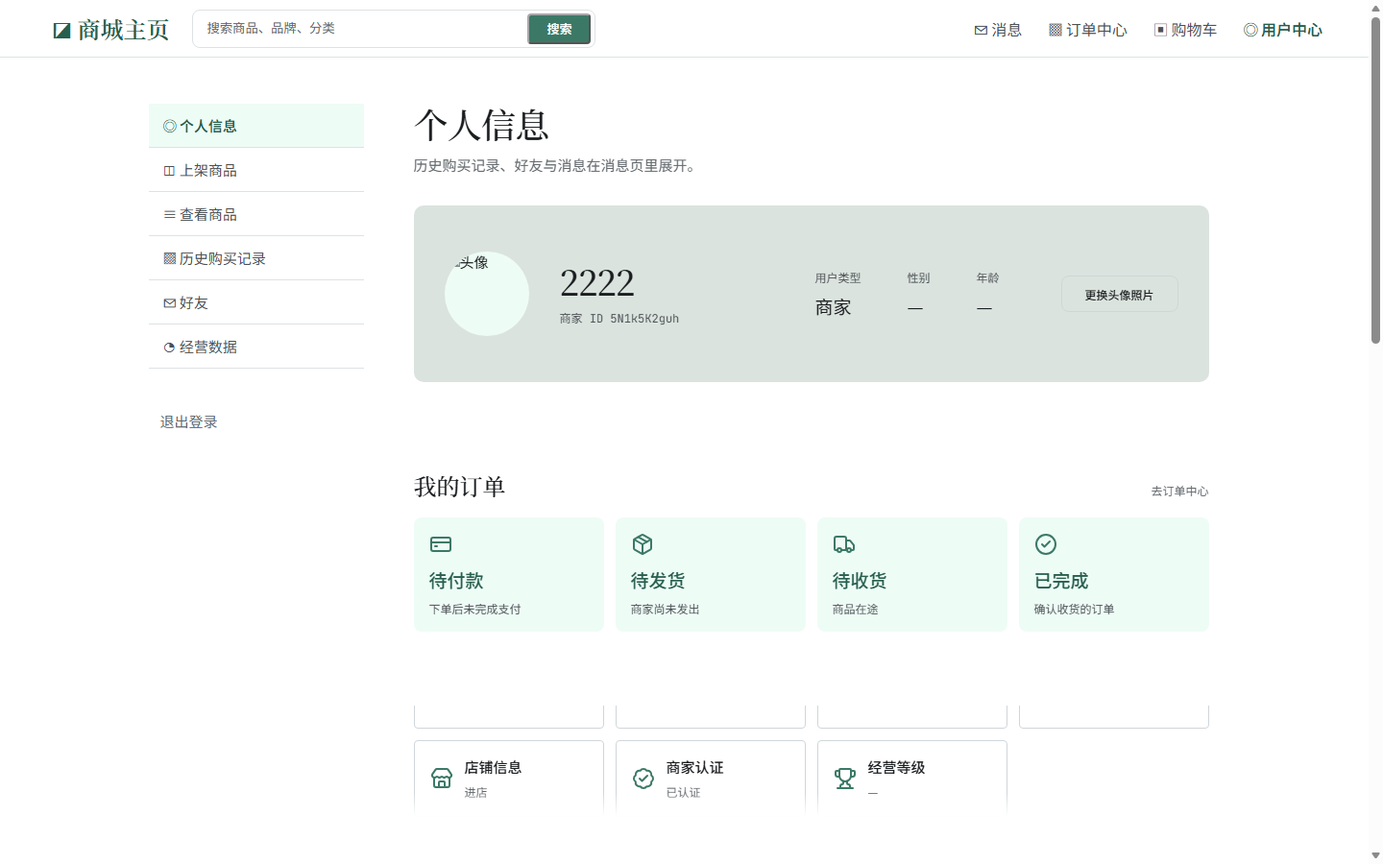
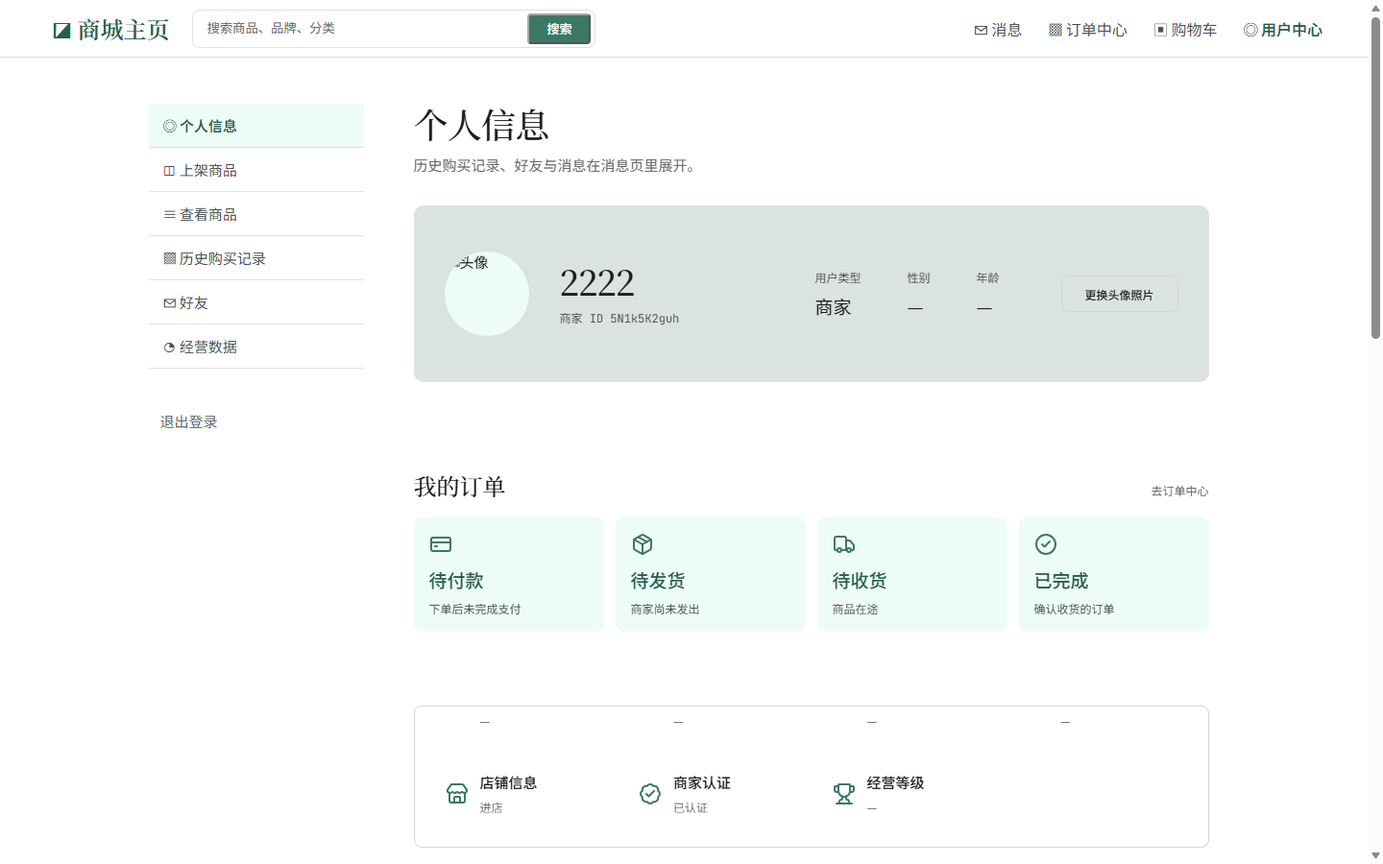
feat(marketing): 块 5 B 组手验 —— 个人中心下半加**容器层**（甲：白底容器 + 内部无边框）
用户 2026-10-12 第三轮**推翻了前两轮的判断**，原话：「**我上两条判错了。真问题是：下半缺
『容器层』**……**不是卡片边框问题，是『下半没有区域边界』**」。`UserInfoPage.vue`
**1132 → 1188 行**（仍是本笔唯一源码文件）。

**先查后改：这一轮有四处前提，逐条核过再动**
- 甲 的字面是 `border: 1px solid var(--line)`。实测本页 **`--line-2` 4 处全是「有框的盒 /
  控件」**（`.f input` / `.btn-plain` / `.mc-dlg` / 旧卡），**`--line` 单独出现只有 1 处**
  且是 **`.mc-dlg-h` 的 `border-bottom`（盒内分隔线）** ⇒ 惯例是「盒的边界用 `--line-2`、
  盒内的分隔用 `--line`」⇒ 容器归前者。**这是对甲字面的一处偏离，已报备。**
- 「容器套在滚动区外面」不是选择而是必需：`.assets` 身上挂着 `mask-image` 下边缘渐隐，
  框画在它自己身上 ⇒ **底边会被自己那道渐隐吃掉**。⇒ 结构只能是
  `div.assets-box` > `section.assets.assets-scroll`。
- ⚠ **我上一轮在 `:1064-1066` 亲手写下过「不要套 wrapper」**，理由是 `margin-top` 76.8px
  会落进滚动内容、首屏被顶掉。核后：那条**只对「wrapper 套在滚动内容里」成立**——
  这里是**把 `margin-top` 搬到 wrapper 上**（`.assets` 那条已删）⇒ 理由不成立，
  **笔记当场作废并改写**（证据 §1 有对照表）。
- 上一轮登记的「偏离 `tokens.css:37`（hover 用底色变化）」**本轮作废**：卡片无框后 hover
  回到**底色** `--surface-2`，**正好是那句的字面** ⇒ 不再是偏离。

**落地：结构一处 + CSS 四处**
- 两壳各加一层 `div.assets-box`（**两壳都有**：「区域边界」与放不放得下无关）。
  `<div>` 与 `<section>` **贴同一行**是故意的 —— 里面 60 多行缩进一字不动。
- `.assets-box`：1px `--line-2` + `--r2` + `padding: --s4` + `background: --surface`，
  并**接过** `.assets` 的 `margin-top: calc(var(--s8)*1.2)`（值未改）。
- `.assets > .asset-card`：**删掉 `border`**，留 `border-radius`（hover 底色要圆角收边）与白底。
- `.asset-entry`：`transition: border-color` → `background`；hover 换 `--surface-2`（**不引绿**）。
- `--assets-row` 算式**删掉 `+ 2px`**（那是卡框）⇒ 卡高 **79.8 → 77.8**、滚动区 115.8 → **113.8**、
  容器外高商家 **147.8** / 客户 **111.8**。
[…]

Changed region(s): [[0.4375, 0.8711, 0.5312, 0.9333], [0.5938, 0.8711, 0.6875, 0.9333], [0.3125, 0.8711, 0.375, 0.9333]]

diff --git a/Mall-management-web/mall-management-system/src/views/UserInfoPage.vue b/Mall-management-web/mall-management-system/src/views/UserInfoPage.vue
@@ -84,20 +84,22 @@
       </section>
 
       <!-- ── ③【无名框】7 项（商家版）—— **无块标题**（用户 2026-10-12 定稿「无名框，无块标题」）──
-           ⚠ 2026-10-12（③ 卡片式统一 → 当日第二轮「甲案：上亮下素」）：一格的形状**由「大数字 + 小标签」
-              改成卡片**，本轮再**由「竖向」改成横向行卡** —— 本块与「我的订单」四格**共用同一套三段解剖**
-              （图标 `@lucide/vue` / 名称 `b` / 值 `span`），但**不再共用同一张卡壳**：
-                上半「我的订单」= 浅绿底 `--brand-tint` + 无边框 + `--r2` —— **已验收，本轮一行未动**；
-                本块 = **白底 `--surface` + 1px 发丝线 `--line-2` + `--r1`** ⇒ 更素（用户定的「上亮下素」）。
-                ⚠ 边框色 2026-10-12 第二轮由 `--line` 加深成 `--line-2`（「白底 + 更深边框」）；
-                   底色**没变过** —— 所谓「浅灰底」并不存在，详见 <style> 里那段。
+           ⚠ 2026-10-12（③ 卡片式统一 → 第二轮「上亮下素」→ **第三轮「加容器层」**，用户逐轮改判）：一格的
+              形状**由「大数字 + 小标签」改成卡片**，再**由「竖向」改成横向行卡**，第三轮**把卡片自己那圈框
+              整体撤掉**。本块与「我的订单」四格**共用同一套三段解剖**（图标 `@lucide/vue` / 名称 `b` /
+              值 `span`），但**分块手段换了轴**（用户第三轮原话「两种形态不同轴」）：
+                上半「我的订单」= **4 张独立卡**（浅绿底 `--brand-tint` + 无边框 + `--r2`）—— **已验收，三轮一行未动**；
+                本块 = **1 个容器装 7 项** —— 容器是外面那层 `div.assets-box`（1px `--line-2` + `--r2` + `--s4`
+                       内距），7 项**自己无边框**、底仍是白 ⇒ 「靠容器框分界，不靠卡片自己分」（见 <style> 文件尾）。
               版式：**图标在左、名称与值两行在右**（名称 `--fs-sm` / `--ink`，值 `--fs-xs` / `--ink-3`；
               这一档字阶与同页「服务」块 `.svc` 逐值相同）。⇒ 卡片因此**矮掉约三分之一**
-              （≈80px vs 上半 ≈119px）—— 「矮」本身就在说它比上半轻，不靠阴影或加粗去说。
-              模板 `<svg> <b> <span>` 的顺序**一行未改**（横向版式纯靠 CSS 网格，见 <style>「上亮下素」段）。
+              （≈78px vs 上半 ≈119px）—— 「矮」本身就在说它比上半轻，不靠阴影或加粗去说。
+              模板 `<svg> <b> <span>` 的顺序**一行未改**（横向版式纯靠 CSS 网格，见 <style>「上卡下盒」段）。
            布局规则（用户定稿「布局规则」段，逐条落）：一行 4 块 · 超出换行 · 第 2 行不足 4 块**左对齐**（甲）
            · **容器级纵向滚动**（乙）· 隐藏原生滚动条 · **下边缘渐隐**（「与领券中心统一」⇒ 78% 停点）。
            ⇒ 多出来的 `.assets-scroll` **只挂这一份**：用户端那 4 项一行放得下 ⇒ 不滚、不渐隐（样式见 <style>）。
+              ⚠ 但**外面那层容器 `div.assets-box` 两壳都有** —— 「区域边界」与「放不放得下」无关；
+                 只有**滚动 + 渐隐**才是溢出样式（判据是项数，不是角色）。
            ⚠ 七项里**只有「优惠券」复用客户版那颗 `div[role=button]`**（用户 2026-10-12 两处待定 ①：
               「券包是『我这个人』的券，不分商家 / 用户视角」）—— 同一组件、同一数据源（`customerId`）。
            ⚠ **边界 2（用户 2026-10-12 要求给明确态）**：`user.customerid` 为空时券包**没有账号可挂**
@@ -109,7 +111,10 @@
               真入口要在「先注册成客户、再入驻通过」的账号上才看得到。
            ⚠ 「店铺信息」跳 `/shop?MerchantId=<自己的商家号>` —— **那条路由属 commit C**（本 commit 里
               点它只有 vue-router 的控制台告警、不跳转），这是**按批准的三 commit 切分**排的，不是遗漏。 -->
-      <section
+      <!-- ⚠ 「区域边界」这一层**必须在滚动区之外**（理由 + 与 `tokens.css:35`「禁嵌套卡片」的关系
+           都写在 <style> 文件尾 `.assets-box` 那段）。`<div>` 与 `<section>` 贴同一行是**故意的**：
+           这样里面 60 多行的缩进一字不动 ⇒ diff 里只有这两行，不给后来人留一片纯缩进的噪声。 -->
+      <div class="assets-box"><section
         class="assets assets-scroll"
         data-slot="预留 · 商家资产与等级（待 C3〈商家中心〉）"
         title="待 C3〈商家中心〉——积分 / 余额 / 我的收藏三格无聚合端点（N=3），经营等级规则先占位（裁定 ④）；⚠ 「优惠券」格已于 C3 块 5 接通（复用用户中心券包弹窗）、「店铺信息」「商家认证」两格已接通（跳店铺主页 / 读 /merchant/myApplications 最新一条的状态）"
@@ -176,7 +181,7 @@
           <Trophy class="card-ic" aria-hidden="true" />
           <b>经营等级</b><span>—</span>
         </div>
-      </section>
+      </section></div>
 
       <!-- ── ④ 最近上架（商家版）—— 卡片 + hover。稿 `:336-349` ───────────────────
            ⚠ **本页唯一一条真 `<router-link>`**：「查看全部」指向 `/merchant/user/list`
@@ -252,12 +257,13 @@
 
       <!-- ── ③【无名框】4 项（客户版）—— **无块标题**，间距分隔（无线）。稿 `:323-329` ────────────
            ⚠ C3 块 5 · B 组（2026-10-12）**本块从 ② 下移到 ③**（用户定稿「[无名框]（4 项）← 下」）。
-           ⚠ 2026-10-12（③ 卡片式统一 → 当日第二轮「甲案：上亮下素」）：本块**与商家版那 7 项同款卡片**
-              —— **白底 + 1px 发丝线 + `--r1`**、横向行卡（图标左 / 名称与值两行右），三段解剖不变。
-              与上半「我的订单」四格的分工见商家版那段注释（上亮下素）。原来那句「数字用色」的
-              `.v` 大字已不成立，随之改掉。
+           ⚠ 2026-10-12（③ 卡片式统一 → 第二轮「上亮下素」→ **第三轮「加容器层」**）：本块**与商家版
+              那 7 项同款** —— **同一个容器**（外面那层 `div.assets-box`）+ **内部无边框的**横向行卡
+              （图标左 / 名称与值两行右），三段解剖不变。与上半「我的订单」四格的分工见商家版那段
+              注释（**上卡下盒**）；原来那句「数字用色」的 `.v` 大字已不成立，随之改掉。
            ⚠ 4 项一行放得下 ⇒ **不滚、不渐隐**：本节的 `class` **不加** `.assets-scroll`（那一条只挂商家版
-              7 项那一份）。这是两壳在样式上的唯一分叉，判据是「项数放不放得下」，不是「谁是商家」。
+              7 项那一份）。两句要分开读：**容器 `div.assets-box` 两壳都有**，只有滚动 + 渐隐是溢出样式；
+              分叉的判据是「项数放不放得下」，不是「谁是商家」。
            ⚠ 与商家版同一条：稿那 4 个数（1,280 / 3 张 / ¥286.50 / 12 件）是示意值，
               **其余三格**无聚合端点 ⇒ **值落 `—`**（F1 = 甲）。单位 `<small>张/¥/件</small>` 随之不落。
            ⚠ **2026-10-11（块 5 · 券的信息架构重排）：「优惠券」一格已接通** —— 它是「我的券包」的
@@ -267,7 +273,8 @@
            ⚠ **本节与商家版那 7 项里的「优惠券」格是同一颗 `div[role=button]`、同一个 `customerId`、
               同一个弹窗**（块 5 B 组两处待定 ①：「券包是『我这个人』的券，不分视角」）—— 当年那句
               「商家看自己的券在管理端，不在这个壳里」**已废**，别再按它推断商家壳里没有券包入口。 -->
-      <section
+      <!-- ⚠ 同商家版：区域边界（`div.assets-box`）在滚动区之外；两壳同款容器。 -->
+      <div class="assets-box"><section
         class="assets"
         data-slot="预留 · 我的资产（待 C3〈个人中心〉）"
         title="待 C3〈个人中心〉——积分/余额/收藏三格无聚合端点（N=3）；⚠ 「优惠券」一格已于 C3 块 5 接通（真券数 + 券包弹窗入口）；稿的 4 个数字为稿自注的示意值，未接通的仍落 —（同 OrderCenter KPI 口径）"
@@ -291,7 +298,7 @@
         </div>
         <div class="asset-card"><Wallet class="card-ic" aria-hidden="true" /><b>余额</b><span>—</span></div>
         <div class="asset-card"><Heart class="card-ic" aria-hidden="true" /><b>我的收藏</b><span>—</span></div>
-      </section>
+      </section></div>
 
       <!-- ── ④ 收藏 / 浏览足迹（客户版）—— 卡片 + hover。稿 `:348-368` ─────────────
            ⚠ 稿的三枚「更多」全是禁用（无端点）；卡片名 / 价同样是稿编的 ⇒ 落 `—`。
@@ -870,48 +877,56 @@ button {
 .ident-btn { margin-left: var(--s6); }
 .file-hidden { display: none; }
 
-/* ── 两处「格子」的分工：**上亮下素**（2026-10-12；③ 建的卡片式统一 → 当日第二轮「甲案」改的下半）
-   两处共用**同一套三段解剖**（图标 `.card-ic` / 名称 `b` / 值 `span`），但**不再共用同一张卡壳** ——
-   用户 2026-10-12 定的分工是「上亮下素」：
-     · 上半 `.tiles`（我的订单 4 格）= **浅绿底 + 无边框**（`--brand-tint` / `--r2`），一屏的视觉焦点。
-       已验收 ⇒ 本轮**一行未动**（它那几条在下面自己那段里，本段不再重复声明）。
-     · 下半 `.assets`（无名框：商家 7 / 客户 4 格）= **白底 + 1px 发丝线 + `--r1`**，更素、更矮、更轻。
-       ⚠ 边框色 2026-10-12 第二轮由 `--line` 加深成 **`--line-2`**（用户：「白底 + 更深边框」）。
-   上下差异是**五处**（底色 / 有无边框 / 圆角 / 字阶 / 版式），不是「同一种卡换个颜色」——
-   层级靠**结构装置**说（这里是「矮一半」），不靠阴影和加粗。
+/* ── 两处「格子」的分工：**上亮下素 → 上卡下盒**（2026-10-12，用户逐轮改判了三次）
+   ⚠ 沿革要留着，否则后来人会按**已废掉的诊断**去「修」：
+        ③「卡片式统一」→ 当日第二轮「上亮下素」（下半 = 白底 + 更深边框）
+        → 当日**第三轮**用户**推翻前两条**：「我上两条判错了。真问题是：下半缺『容器层』……
+          不是卡片边框问题，是『下半没有区域边界』」。
+      ⇒ 下半卡片**自己那圈框**（③ 起就有、第二轮加深过）**已整体撤掉**，改由**容器**分界。
+   ⚠ 两处共用**同一套三段解剖**（图标 `.card-ic` / 名称 `b` / 值 `span`），但**分块手段换了轴**
+      （用户第三轮原话「两种形态不同轴」）：
+        · 上半 `.tiles`（我的订单 4 格）= 4 张**独立卡**：浅绿底 `--brand-tint` + 无边框 + `--r2`。
+          已验收 ⇒ **三轮一行未动**（它那几条在下面自己那段里，本段不再重复声明）。
+        · 下半 `.assets`（无名框：商家 7 / 客户 4 格）= **1 个容器装 N 项**：容器见文件尾 `.assets-box`
+          （1px `--line-2` + `--r2` + `--s4` 内距），**内部各项无边框、底仍是白** ⇒「靠容器框分界，不靠卡片自己分」。
+   ⚠ 上下差异仍是**五处**（底色 / 有无边框 / 圆角 / 字阶 / 版式），不是「同一种卡换个颜色」——
+      层级靠**结构装置**说（这里是「矮一半」+「散着 → 收成一盒」），不靠阴影和加粗。
    ⚠ 版式：下半是**横向行卡**（图标左 / 名称+值右两行左对齐）⇒ 卡片**矮掉约三分之一**
-      （≈80px vs 上半 ≈119px）。矮，本身就是「它比上半轻」那句话。
+      （≈78px vs 上半 ≈119px）。矮，本身就是「它比上半轻」那句话。
    ⚠ **一条 `box-shadow` 都没有** —— 这不是「懒得加」，是本仓**成文的规矩**：
       `tokens.css:35-36` 的「用法规矩」原文就是「**禁 · 阴影铺满（改用 1px 发丝线 `--line`）**」
       + 「禁 · 统一大圆角（只用 `--r1/--r2/--r3`）」；`tokens.css:91` 那行 `--line` 自注的也是
       「发丝线（**替代阴影的主力**）」。本页「次级」的既有 idiom 同样是描边：
-      `.btn-plain:1017`，以及 ⑥ 账号设置的输入框 `.f input:1002`（白底 + 1px + `transition: border-color`）。
-   ⚠ **边框色取 `--line-2`（`tokens.css:92`），不是 `--line`** —— 2026-10-12 第二轮用户裁定
-      「浅灰底撤掉、**白底 + 更深边框**」（给的推荐式为「甲：白底 + 1px `--line-2`」）。
-      ⚠ **「浅灰底」是不存在的**，所以本轮**没有底色可撤**：卡面从 ③ 起就是 `--surface`
-      （`#ffffff`，与 `--bg` 同值）；实测涂色也是 `rgb(255, 255, 255)`，页面底（`.app-shell`）同样是白。
-      ⇒ **本轮的实际变化只有一处：边框 `--line` → `--line-2`**（对比度 1.31:1 → 1.47:1）。
-      `--line-2` 在本页已有三处先例、**都是「次级控件」的描边**：`.f input:1002` / `.btn-plain:1017`
-      / `.mc-dlg:1112`（商家认证弹窗的板）⇒ 下半（次级入口）与它们同族；与输入框仍分得开
-      （半径 `--r1` vs `--r2`、体量 80 vs 42）。
-      ⚠ 字体族/字阶/半径/内距/hover 一律**未动**；`--surface` 也不改成 `--bg` —— 亮色主题下两者同值，
-      但 `--bg` 是**页面底**语义，`html[data-theme="admin"]` 下 `--bg`(#101828) ≠ `--surface`(#172032)，
-      用它会让卡片与该主题的页面底同色、**卡片消失**。
+      `.btn-plain`，以及 ⑥ 账号设置的输入框 `.f input`（白底 + 1px + `transition: border-color`）。
+   ⚠ `--line` / `--line-2` 在本页的分工**已实测成文**（第三轮为容器选框色时数的）：
+        **`--line-2` 4 处** —— `.f input` / `.btn-plain` / `.mc-dlg` / 本容器，**全是有框的盒 / 控件**；
+        **`--line` 单独出现只有 1 处** —— `.mc-dlg-h` 的 `border-bottom`，那是**盒内的一条分隔线**。
+      ⇒ 惯例：「**盒的边界用 `--line-2`、盒内的分隔用 `--line`**」⇒ 容器（区域的边界）归前者。
+   ⚠ 底色**从头到尾没变过**：卡面 / 盒面都是 `--surface`，亮色主题下与 `--bg`、页面底（`.app-shell`）
+      三者同值 `#ffffff` ⇒ 第二轮那句「浅灰底撤掉」是**没有对象可撤的**（实测见证据文件）。
+      `--surface` 也**不**改成 `--bg`：亮色主题下两者同值看不出，但 `--bg` 是**页面底**语义，
+      `html[data-theme="admin"]` 下 `--bg`(#101828) ≠ `--surface`(#172032) ⇒ 用它会让整块与页面底同色、**消失**。
    ⚠ 名称字色由 `--brand-ink` 降成 `--ink`、字号由 `--fs-md`(19) 降成 `--fs-sm`(15) —— 绿只留给**图标**，
-      下半卡面不再有绿。**字阶与同页 `.svc`（服务块 `:993` / `:995`）逐值相同**
+      下半卡面不再有绿。**字阶与同页 `.svc`（服务块）逐值相同**
       （`b` = `--fs-sm`/`--fw-med`/`--ink`，`span` = `margin-top:var(--s2)`/`--fs-xs`/`--ink-3`），
       只有 `line-height` 不同（`.svc` 是 1.6，这里 1.4）—— 卡片里两行本就紧邻，且 1.4 要进容器高算式。
    ⚠ 两条 `line-height: 1.4` **必须显式写**：文件尾 `.assets-scroll` 的容器高是拿这批 token 算出来的，
       行高若走继承值，算式与实际渲染就会对不上。
-   ⚠ 格距仍是 `--s3`（12px）—— 与 `.tiles` 同缝宽；**有边框之后** 32px 的缝会把一行拆成四张孤立的卡。 */
-.assets { margin-top: calc(var(--s8) * 1.2); display: grid; grid-template-columns: repeat(4, 1fr); gap: var(--s3); }
+   ⚠ 格距仍是 `--s3`（12px）—— 与 `.tiles` 同缝宽。**框撤掉之后**缝的意义变了：它不再「把一行拆成
+      四张孤立的卡」（那是第二轮的话），而是**一盒之内**的呼吸 —— 外面已经有容器框在说「这是一块」。 */
+/* ⚠ `margin-top` 已**搬到 `.assets-box`**（第三轮加容器；值未变、仍是 `--s8 × 1.2`），
+   留在这里会与容器的边距叠成两份 ⇒ 本行只留网格。 */
+.assets { display: grid; grid-template-columns: repeat(4, 1fr); gap: var(--s3); }
 /* 横向行卡 = 两列网格（`auto` 图标 / `minmax(0,1fr)` 文字块）+ 图标 `grid-row: 1 / span 2` 跨过
    名称与值那两行 ⇒ **零 DOM 改动**就得到「图标左、名称+值上下两行右」这版式
    （模板里 `<svg> <b> <span>` 的顺序本就正好是这个，一行未改）。 */
+/* ⚠ **本行第三轮撤掉了 `border`**（③ 建、第二轮加深过的那一圈）—— 边界改由**容器**（`.assets-box`）承担。
+   `border-radius` **留着**：可点的那几项 hover 会给底色（`--surface-2`），底色要圆角收边。
+   `background: var(--surface)` 也**留着**：用户甲的原文就是「内部卡片：白底 + 无边框」；且它是唯一的
+   「换主题时仍是一张面」的保证（`html[data-theme="admin"]` 下 `--surface` ≠ `--bg`）。 */
 .assets > .asset-card {
   display: grid; grid-template-columns: auto minmax(0, 1fr); column-gap: var(--s3);
-  padding: var(--s4); background: var(--surface);
-  border: 1px solid var(--line-2); border-radius: var(--r1);
+  padding: var(--s4); background: var(--surface); border-radius: var(--r1);
 }
 .tiles b { display: block; font-size: var(--fs-md); font-weight: var(--fw-med);
            line-height: 1.4; color: var(--brand-ink); }
@@ -935,13 +950,14 @@ button {
 /* ⚠ 「优惠券」那格是 `div[role=button]`（可点）而不是 `<button>` —— 理由见模板里那条注释。
    这里只补「可点」的三个视觉线索（光标 / hover / 键盘焦点环），**尺寸不动**：
    它得与同一行另外几格逐像素对齐（都是 `.assets` 的 grid 项，宽高由网格定）。
-   ⚠ hover 换的是**边色不是底色**（`.btn-plain:hover:1018` 与 `.f input:focus` 同款）：底色一变就
-      「又亮回去了」，与「下半更素」自相矛盾，还会和上半 `.tiles` 的 hover 撞语义。
-      ⚠ 这一处**偏离 `tokens.css:37` 那句「（hover 用底色变化）」的字面** —— 那句的主语是
-      「禁 · **侧边强调条**」，禁的是拿左侧色条当悬停指示；而**本页自己的两处描边元素**
-      （`.btn-plain` / `.f input`）hover 换的都是边色 ⇒ 这里照**页面自己的话**讲，不照那句的字面。 */
-.asset-entry { cursor: pointer; transition: border-color .15s; }
-.asset-entry:hover, .asset-entry:focus-visible { border-color: var(--brand); }
+   ⚠ **第三轮改了 hover 的载体**：卡片**没有边框了**（见上面 `.assets > .asset-card`）⇒ 可点的几项
+      改成**底色变化**（`--surface-2`）—— 这**正好**落回 `tokens.css:37` 那句「（hover 用底色变化）」
+      的字面 ⇒ **上一轮登记的那条「偏离 `tokens.css:37`」随之作废**（不再是偏离，是照做）。
+   ⚠ 底色取 **`--surface-2`**（`tokens.css:85`，卡内浅 inset 的灰），**不是**上半 `.tiles` 用的
+      `--brand-soft`：下半的定调是「素」、「绿只留给图标」（见上面那段）⇒ 悬停也**不引入绿**；
+      且同页 `.pcard:hover`（④ 收藏 / 足迹 / 最近上架那批卡）用的就是 `--surface-2`，两处同款。 */
+.asset-entry { cursor: pointer; transition: background .15s; }
+.asset-entry:hover, .asset-entry:focus-visible { background: var(--surface-2); }
 .asset-entry:focus-visible { outline: 2px solid var(--brand); outline-offset: var(--s2); }
 /* 快过期红点 —— 挂在券数右侧（`1em` ⇒ 跟 `span` 的 `--fs-xs` 同号，不撑行高）。 */
 .wallet-dot { font-style: normal; font-size: 1em; color: var(--danger); margin-left: var(--s1); }
@@ -1061,16 +1077,19 @@ button {
    用户定稿的布局规则：「容器级纵向滚动（乙）· 隐藏原生滚动条 · 下边缘渐隐（与领券中心统一）」。
    **只挂商家那一份** `.assets`（7 项放不下）；用户端 4 项一行放得下 ⇒ 不加此类、不滚不渐隐。
    判据是「项数放不放得下」，不是「谁是商家」—— 换言之这不是角色样式，是**溢出样式**。
-   ⚠ 类**加在 `.assets` 同一个元素上**（`class="assets assets-scroll"`），**不是**外面再套一层 wrapper：
-      套一层会让 `.assets` 那条 `margin-top: calc(var(--s8) * 1.2)`（76.8px）落进滚动内容里
-      —— 首屏先把 76.8px 空白滚出去，第一行直接被顶出可视区。同类元素两份类 ⇒ 网格与间距全部沿用既有值。
+   ⚠ **第三轮反过来**：`.assets-scroll` 现在**确实**套在 `div.assets-box` 里面（容器层，见文件尾那段）。
+      之前这里写过一条「**不要**套 wrapper」的笔记，理由是 `margin-top` 76.8px 会落进滚动内容、
+      首屏被顶掉 —— 那个理由**只对「把 wrapper 套在滚动内容里」成立**。这里的做法是把 `margin-top`
+      **搬到 `.assets-box` 上**（`.assets` 那条已删）⇒ 该理由不成立，笔记随之作废。
+      ⇒ 两层各管一事：`div.assets-box` 画**区域边界**，`section.assets.assets-scroll` 管**网格 + 滚动 + 渐隐**。
    ⚠ 高度**用既有 token 算**，**不拍一个裸 px**：`--assets-row` = 一张**横向行卡**的高度 =
       padding×2（`--s4`）+ 文字块（名称 `--fs-sm × 1.4` + 值上边距 `--s2` + 值 `--fs-xs × 1.4`）
-      + 两条 1px 边框 = 32 + (21 + 8 + 16.8) + 2 ≈ **79.8px**。
+      = 32 + (21 + 8 + 16.8) ≈ **77.8px**。
+      ⚠ 算式里**再也没有 `+ 2px` 那一项** —— 那正是卡片边框（第三轮已撤）⇒ 卡高 79.8 → **77.8**。
       ⚠ 算式里**没有 `--fs-lg`（图标）那一项** —— 图标 24px 比文字块 45.8px 矮，卡高由文字块定
       （图标 `align-self: center` 在两行里居中，不撑高）。**若日后把 `--fs-lg` 调到 45.8 以上，这一项要加回来。**
       它**跟着卡片解剖走**：③ 建的卡片、当日「甲案」改的横向版式 —— 卡片再动，这里跟着动。
-      ⇒ **同一个 token 算式、值从 119.4 变成 79.8**，因为解剖本身变了，不是另拍一行数字。
+      ⇒ **同一个 token 算式、值 119.4 → 79.8 → 77.8**，因为解剖本身在变，不是另拍一行数字。
       「≈ 一行」的判据是**它不随项数长高**（7 项和 70 项都一样高），不是像素级等于一行。
       再留 `--s3 + --s5`（一个格间距 + 一段）⇒ 露出第 2 行顶部**约三分之一行高**：渐隐要有东西可渐，
       否则渐的是空白、等于没做；这一档也是「与领券中心统一」那一句的落点
@@ -1079,7 +1098,7 @@ button {
    ⚠ 隐藏滚动条两条与 `ProductPage.vue:1330-1331` 同款；渐隐 78% 停点与领券中心
       （`ProductPage.vue:1032` `.coupons-cut`）逐字相同，`mask-image` / `-webkit-mask-image` **两条都写**。 */
 .assets-scroll {
-  --assets-row: calc(var(--s4) * 2 + var(--fs-sm) * 1.4 + var(--s2) + var(--fs-xs) * 1.4 + 2px);
+  --assets-row: calc(var(--s4) * 2 + var(--fs-sm) * 1.4 + var(--s2) + var(--fs-xs) * 1.4);
   max-height: calc(var(--assets-row) + var(--s3) + var(--s5));
   overflow-y: auto;
   scrollbar-width: none;
@@ -1129,4 +1148,41 @@ button {
 .mc-state { font-family: var(--font-display); font-size: var(--fs-xl); font-weight: var(--fw-med);
             line-height: 1.1; color: var(--brand-ink); }
 .mc-why { margin-top: var(--s4); font-size: var(--fs-sm); color: var(--ink-2); line-height: 1.7; }
+
+/* ── 三、下半【无名框】的**容器层** `div.assets-box`（2026-10-12 第三轮 · 用户裁定
+      「甲：白底容器 + 内部无边框（推荐）」）───────────────────────────────────────────────
+   ⚠ 用户第三轮**推翻了前两轮的判断**，原话：「我上两条判错了。真问题是：下半缺『容器层』……
+      不是卡片边框问题，是『下半没有区域边界』」。
+      ⇒ 问题不是「每张卡的框太淡」（那是第二轮的路子，**已作废**），而是
+        「7 项散在白底上、看不出这是一块」⇒ 加**一层**区域边界，把那 7 项收进去。
+   ⚠ 与上半的分工因此**换了轴**（用户原话「两种形态不同轴」）：
+        上半「我的订单」= 4 张**独立卡**（浅绿底、无边框）／ 下半 = 1 个**容器**装 N 项。
+   ⚠ 结构上**必须**是容器套在**滚动区外面**（`div.assets-box` > `section.assets.assets-scroll`）：
+      `.assets` 那份挂着 `mask-image` 的下边缘渐隐，容器框若画在**它自己**身上 ⇒ 容器的**底边会被
+      自己那道渐隐吃掉**（一个盒子只剩三条边）。套在外面 + 留 `--s4` 内距 ⇒ 渐隐落在框**内**、底边完整。
+   ⚠ 这**不构成** `tokens.css:35` 禁的「嵌套卡片（卡片只有一层）」：**外层是区域、不是卡片**
+      （不吃独立底、不参与网格、不是一次点击目标），**内层各项也不再是卡片**（框已撤）—— 禁的那件事是
+      「一张卡里再套一张卡」，这里是**一块区域里排一张清单**。
+   ⚠ **一处偏离「甲」公式的字面**（报备）：用户写的是 `.容器 { border: 1px solid var(--line); }`，
+      本笔落的是 **`--line-2`**。依据是**本页自己的用法统计**，不是口味：
+        `var(--line-2)` 在本页 4 处 —— `.f input` / `.btn-plain` / `.mc-dlg` / 本容器，**全是有框的盒 / 控件**；
+        `var(--line)` **单独出现只有 1 处** —— `.mc-dlg-h` 的 `border-bottom`，那是**盒内的一条分隔线**。
+      ⇒ 本页的成文惯例是「**盒的边界用 `--line-2`、盒内的分隔用 `--line`**」；容器是**区域的边界**，归前者。
+        这也与用户上一轮「边界要更深」的取向同向（对比度 1.31:1 vs 1.47:1）。
+   ⚠ `padding: var(--s4)` —— 与卡片自身内距同档，盒内四周等宽、不另拍数。
+   ⚠ `margin-top: calc(var(--s8) * 1.2)` **从 `.assets` 原样搬来**（值一字未改，仍是 76.8px）。
+   ⚠ 容器**不设** `overflow: hidden`：内部全被 `--s4` 内距让开，不需要圆角裁剪；设了反而会把
+      键盘焦点环（`.asset-entry:focus-visible` 的 `outline-offset: var(--s2)`）在容器边上切掉一角。
+   ⚠ **两壳都加**（商家 7 项 / 客户 4 项同款容器）—— 「区域边界」与「放不放得下」无关；
+      只有**滚动 + 渐隐**（`.assets-scroll`）才只挂商家那一份。
+   ⚠ 副作用（实测，用户手验时留意）：容器把下半**撑高**了 —— 内距 ×2 + 边 ×2 = **34px**，
+      且卡片自己那圈框撤掉（−2px）⇒ 客户壳下半由 79.8 → **111.8px**（一行卡 + 34）。
+      这是「加一层盒」的固有代价，不是哪里写错了。 */
+.assets-box {
+  margin-top: calc(var(--s8) * 1.2);
+  padding: var(--s4);
+  background: var(--surface);
+  border: 1px solid var(--line-2);
+  border-radius: var(--r2);
+}
 </style>
